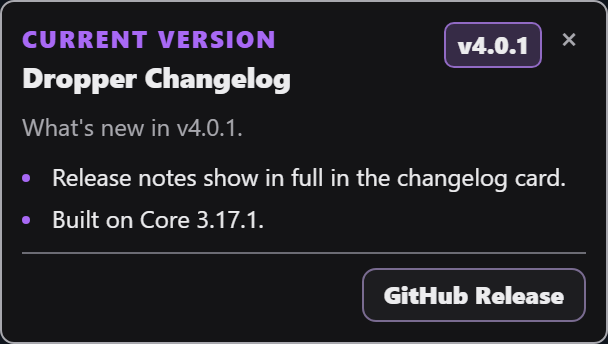
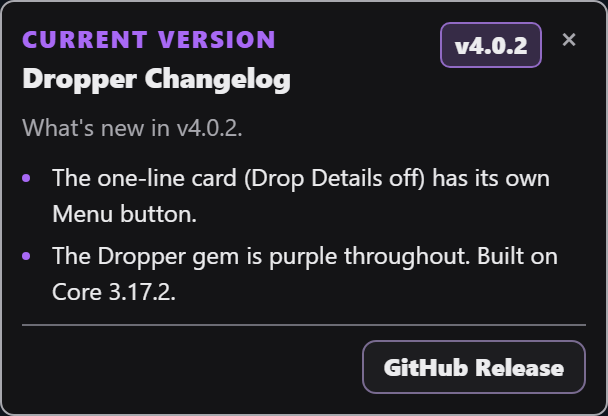
Dropper 4.0.2: Menu button on the one-line card; purple gem; built on Core 3.17.2

diff --git a/dropper.user.js b/dropper.user.js
@@ -1,7 +1,7 @@
 // ==UserScript==
 // @name         Dropper for Twitch
 // @namespace    twitch-drops-helper
-// @version      4.0.1
+// @version      4.0.2
 // @description  A browser-only Twitch companion for the streams you choose to watch: track credited reward progress, manage campaigns, and collect earned rewards.
 // @icon         https://raw.githubusercontent.com/ExtraPotions/Dropper/main/assets/dropper-launcher.svg
 // @homepageURL  https://github.com/ExtraPotions/Dropper
@@ -58,7 +58,7 @@ const CHARCOAL = Object.freeze({
 // Each product's badge colour, tuned to 4.5:1 on the panel in that mode.
 const PRODUCT_ACCENTS = Object.freeze({
   dropper: Object.freeze({light:'#862ff1',dark:'#a869f5'}),
-  ward: Object.freeze({light:'#8e5c05',dark:'#f6a313'}),
+  ward: Object.freeze({light:'#0d7246',dark:'#1fbf7a'}),
   thread: Object.freeze({light:'#bd3300',dark:'#ff4500'}),
 });
 function productPalette(product, mode) {
@@ -2516,7 +2516,7 @@ const ExpLauncherFlyout = (() => {
 // exp-core owns shared UI, launcher, diagnostics, update, and coordination behavior.
 const ExtraPotionsCore = (() => {
   'use strict';
-  const version = '3.17.1';
+  const version = '3.17.2';
   const sourceVersion = version; // Backward-compatible alias for Core's own foundation version.
   const SUPPORT_URL = 'https://ko-fi.com/expdare';
   const protocol = 'exp-core-coordination-v1';
@@ -10987,6 +10987,7 @@ const ExtraPotionsCore = (() => {
   const UPDATE_RELOAD_PENDING_TTL_MS = 2 * 60 * 1000;
   const QUIET_RELEASES = Object.freeze(['3.4.43', '3.4.30', '3.4.27', '3.4.26']);
   const RELEASE_NOTES = {
+    '4.0.2': ["The one-line card (Drop Details off) has its own Menu button.", "The Dropper gem is purple throughout. Built on Core 3.17.2."],
     '4.0.1': ["Release notes show in full in the changelog card.", "Built on Core 3.17.1."],
     '4.0.0': ["Dropper is rebuilt from the ground up; your settings, priorities and claim history carry over.", "The progress card stays in view in place of the Stream Chat title bar, and the menu opens from its edge like a file cabinet.", "Turn off Drop Details in Look for a one-line card. Hide Chat on the card collapses Twitch chat, and Expand Chat stays in reach.", "Labels are in Title Case. Built on Core 3.17.0."],
   };
@@ -11821,7 +11822,15 @@ const ExtraPotionsCore = (() => {
         .cluster #tdh-drop-card[data-chat-toggle="1"]:not(.is-expanded) .chat-collapse{display:grid!important;place-items:center!important;position:absolute!important;left:4px!important;top:7px!important;width:26px!important;height:26px!important;padding:0!important;margin:0!important;border:0!important;border-radius:6px!important;background:transparent!important;color:var(--theme-text)!important;cursor:pointer!important;z-index:6!important}
         .cluster #tdh-drop-card[data-chat-toggle="1"] .chat-collapse:is(:hover,:focus-visible){background:var(--theme-inset)!important;outline:none!important;box-shadow:0 0 0 2px var(--theme-focus,var(--theme-accent))!important}
         .cluster #tdh-drop-card[data-chat-toggle="1"] .chat-collapse svg{width:16px!important;height:16px!important}
-        .cluster #tdh-drop-card[data-chat-toggle="1"]:not(.is-expanded)[data-presentation="compact-card"][data-progress-placement="outside"]:not([data-collapsed="true"]) .progress-copy{grid-template-columns:36px auto minmax(0,1fr) auto 46px!important}
+        /* The one-line card (Drop Details off) has its own Menu button in place of the drawer handle. */
+        .cluster #tdh-drop-card .strip-menu{display:none}
+        .cluster #tdh-drop-card:not(.is-expanded)[data-presentation="compact-card"][data-progress-placement="outside"]:not([data-collapsed="true"]) .strip-toggle::after{display:none!important}
+        .cluster #tdh-drop-card:not(.is-expanded)[data-presentation="compact-card"][data-progress-placement="outside"]:not([data-collapsed="true"]) .progress-copy{grid-template-columns:10px auto minmax(0,1fr) auto 58px!important}
+        .cluster #tdh-drop-card:not(.is-expanded)[data-presentation="compact-card"][data-progress-placement="outside"]:not([data-collapsed="true"]) .strip-menu{display:block!important;position:absolute!important;right:6px!important;top:7px!important;z-index:6!important;box-sizing:border-box!important;height:26px!important;margin:0!important;padding:0 8px!important;border:1px solid color-mix(in srgb,var(--theme-line) 60%,transparent)!important;border-radius:6px!important;background:var(--theme-panel,#1f1f23)!important;color:var(--theme-text)!important;font:400 11px/1.35 "Segoe UI",sans-serif!important;cursor:pointer!important;white-space:nowrap!important}
+        @media(pointer:coarse){.cluster #tdh-drop-card:not(.is-expanded)[data-presentation="compact-card"][data-progress-placement="outside"]:not([data-collapsed="true"]) .strip-menu{height:32px!important;top:5px!important}}
+        .cluster #tdh-drop-card .strip-menu:hover{background:var(--theme-inset)!important}
+        .cluster #tdh-drop-card .strip-menu:focus-visible{outline:2px solid var(--theme-focus,var(--theme-accent))!important;outline-offset:1px!important}
+        .cluster #tdh-drop-card[data-chat-toggle="1"]:not(.is-expanded)[data-presentation="compact-card"][data-progress-placement="outside"]:not([data-collapsed="true"]) .progress-copy{grid-template-columns:36px auto minmax(0,1fr) auto 58px!important}
         .cluster #tdh-drop-card .card-head-actions{display:none}
         .cluster #tdh-drop-card[data-cabinet] .card-head-actions{display:flex!important;position:absolute!important;top:0!important;right:6px!important;height:41px!important;align-items:center!important;gap:2px!important;z-index:6!important}
         .cluster #tdh-drop-card[data-cabinet] .card-head-actions .header-actions{display:flex!important;align-items:center!important;gap:2px!important}
@@ -11852,7 +11861,7 @@ const ExtraPotionsCore = (() => {
     }
 
     function dropperGemSvg(className) {
-      return `<svg class="${className}" viewBox="0 0 128 128" aria-hidden="true"><polygon points="29.00,24.00 62.00,24.00 62.00,40.20 47.90,40.20" fill="#D9B5FF"/><polygon points="66.00,24.00 99.00,24.00 80.10,40.20 66.00,40.20" fill="#AEB0C2"/><polygon points="47.90,40.20 62.00,40.20 62.00,52.29" fill="#8C39F2"/><polygon points="66.00,40.20 80.10,40.20 66.00,52.29" fill="#4E5268"/><polygon points="99.00,24.00 119.00,53.00 89.30,53.54 80.10,40.20" fill="#6A6E87"/><polygon points="80.10,40.20 89.30,53.54 66.00,53.96 66.00,52.29" fill="#3F4254"/><polygon points="119.00,53.00 66.00,111.78 66.00,79.38 89.30,53.54" fill="#4E5268"/><polygon points="89.30,53.54 66.00,79.38 66.00,53.96" fill="#242633"/><polygon points="62.00,111.78 9.00,53.00 38.70,53.54 62.00,79.38" fill="#7428E8"/><polygon points="62.00,79.38 38.70,53.54 62.00,53.96" fill="#7428E8"/><polygon points="9.00,53.00 29.00,24.00 47.90,40.20 38.70,53.54" fill="#5417B3"/><polygon points="38.70,53.54 47.90,40.20 62.00,52.29 62.00,53.96" fill="#9B5AF9"/></svg>`;
+      return `<svg class="${className}" viewBox="0 0 128 128" aria-hidden="true"><polygon points="29.00,24.00 62.00,24.00 62.00,40.20 47.90,40.20" fill="#D9B5FF"/><polygon points="66.00,24.00 99.00,24.00 80.10,40.20 66.00,40.20" fill="#CDBBF0"/><polygon points="47.90,40.20 62.00,40.20 62.00,52.29" fill="#8C39F2"/><polygon points="66.00,40.20 80.10,40.20 66.00,52.29" fill="#5E4A93"/><polygon points="99.00,24.00 119.00,53.00 89.30,53.54 80.10,40.20" fill="#806AB8"/><polygon points="80.10,40.20 89.30,53.54 66.00,53.96 66.00,52.29" fill="#4A3779"/><polygon points="119.00,53.00 66.00,111.78 66.00,79.38 89.30,53.54" fill="#5E4A93"/><polygon points="89.30,53.54 66.00,79.38 66.00,53.96" fill="#2C1F4D"/><polygon points="62.00,111.78 9.00,53.00 38.70,53.54 62.00,79.38" fill="#7428E8"/><polygon points="62.00,79.38 38.70,53.54 62.00,53.96" fill="#7428E8"/><polygon points="9.00,53.00 29.00,24.00 47.90,40.20 38.70,53.54" fill="#5417B3"/><polygon points="38.70,53.54 47.90,40.20 62.00,52.29 62.00,53.96" fill="#9B5AF9"/></svg>`;
     }
 
     function switchHtml(id, label, description, on) {
@@ -12002,6 +12011,7 @@ const ExtraPotionsCore = (() => {
               <button type="button" class="strip-toggle" id="tdh-strip-toggle" aria-controls="tdh-stream-info" aria-expanded="false" aria-label="Show Drop Details"></button>
               <div class="card-head-actions" id="tdh-card-head-actions"></div>
               <button type="button" class="chat-collapse" id="tdh-chat-collapse" aria-label="Hide Chat"><svg viewBox="0 0 16 16" aria-hidden="true"><path d="M3 3.5h10a1 1 0 0 1 1 1v6a1 1 0 0 1-1 1H8l-3 2.5v-2.5H3a1 1 0 0 1-1-1v-6a1 1 0 0 1 1-1Z" fill="none" stroke="currentColor" stroke-width="1.4" stroke-linejoin="round"></path></svg></button>
+              <button type="button" class="strip-menu" id="tdh-strip-menu" aria-label="Open Dropper Menu">Menu</button>
               <div class="expanded-content">
                 <div class="stream-info" id="tdh-stream-info">
                   <div class="progress-copy">
@@ -12113,6 +12123,8 @@ const ExtraPotionsCore = (() => {
       stripArtImage?.addEventListener("error", () => { stripArtImage.dataset.failed = stripArtImage.getAttribute("src") || ""; stripArtImage.hidden = true; });
       shadow.getElementById('tdh-card-pause')?.addEventListener('click',cardPause);
       shadow.getElementById('tdh-card-menu')?.addEventListener('click',()=>setRailOpen(!railOpen,true));
+      // The one-line card's Menu shows only while the menu is closed, so it only opens.
+      shadow.getElementById('tdh-strip-menu')?.addEventListener('click',()=>setRailOpen(true,true));
       // The card covers the Stream Chat title bar, so it carries Twitch's collapse-chat button for it.
       const hideChat=()=>{if(railOpen)setRailOpen(false);const toggle=visibleChatToggle();restoreChatProgressSlot();toggle?.click();requestAnimationFrame(layoutChrome);};
       for(const id of ['tdh-chat-hide','tdh-chat-collapse'])shadow.getElementById(id)?.addEventListener('click',hideChat);
@@ -13641,7 +13653,7 @@ const ExtraPotionsCore = (() => {
   // Wiring and startup: the only file that reads browser globals. It builds every module from the real storages,
   // the userscript manager's functions and the page, then runs the heartbeat. Page reading, tabs, the data layer
   // and the menu are wired here as their modules land (milestone 3).
-  const APP_VERSION = '4.0.1';
+  const APP_VERSION = '4.0.2';
   const HEARTBEAT_MS = 5000;
   const ACTIVITY_LOG_LIMIT = 40;
   const SECRET_META = /token|cookie|auth|password|integrity|secret/i;

diff --git a/docs/usage.md b/docs/usage.md
@@ -14,7 +14,7 @@ Stream switching starts at **Follow Campaign Order** in the first eligible tab. 
 
 ## Features and controls
 
-- **Track progress:** see credited watch time for the current reward on a compact card. On a channel page the card sits in place of the Stream Chat title bar, and the menu opens from its edge. Turn off **Look → Drop Details** for a one-line card with the channel, game and percentage. **Hide Chat** on the card collapses Twitch chat, and Twitch's Expand Chat reopens it. Pause or Resume reflects your viewing intent; Skip asks you to press it again. Twitch decides eligibility and credit.
+- **Track progress:** see credited watch time for the current reward on a compact card. On a channel page the card sits in place of the Stream Chat title bar, and the menu opens from its edge. Turn off **Look → Drop Details** for a one-line card with the channel, game, percentage and **Menu**. **Hide Chat** on the card collapses Twitch chat, and Twitch's Expand Chat reopens it. Pause or Resume reflects your viewing intent; Skip asks you to press it again. Twitch decides eligibility and credit.
 - **Check eligibility:** see whether the stream you are watching matches the campaign: account, campaign, reward, game, and stream.
 - **Keep rewards in reach:** browse campaigns, review your history, and open your Drops inventory from the menu.
 - **Choose your games:** follow the games you care about and ignore the rest.

diff --git a/CHANGELOG.md b/CHANGELOG.md
@@ -1,3 +1,8 @@
+## 4.0.2 — 2026-11-14
+
+- The one-line card (Drop Details off) has its own Menu button.
+- The Dropper gem is purple throughout. Built on Core 3.17.2.
+
 ## 4.0.1 — 2026-11-13
 
 - Release notes show in full in the changelog card.
